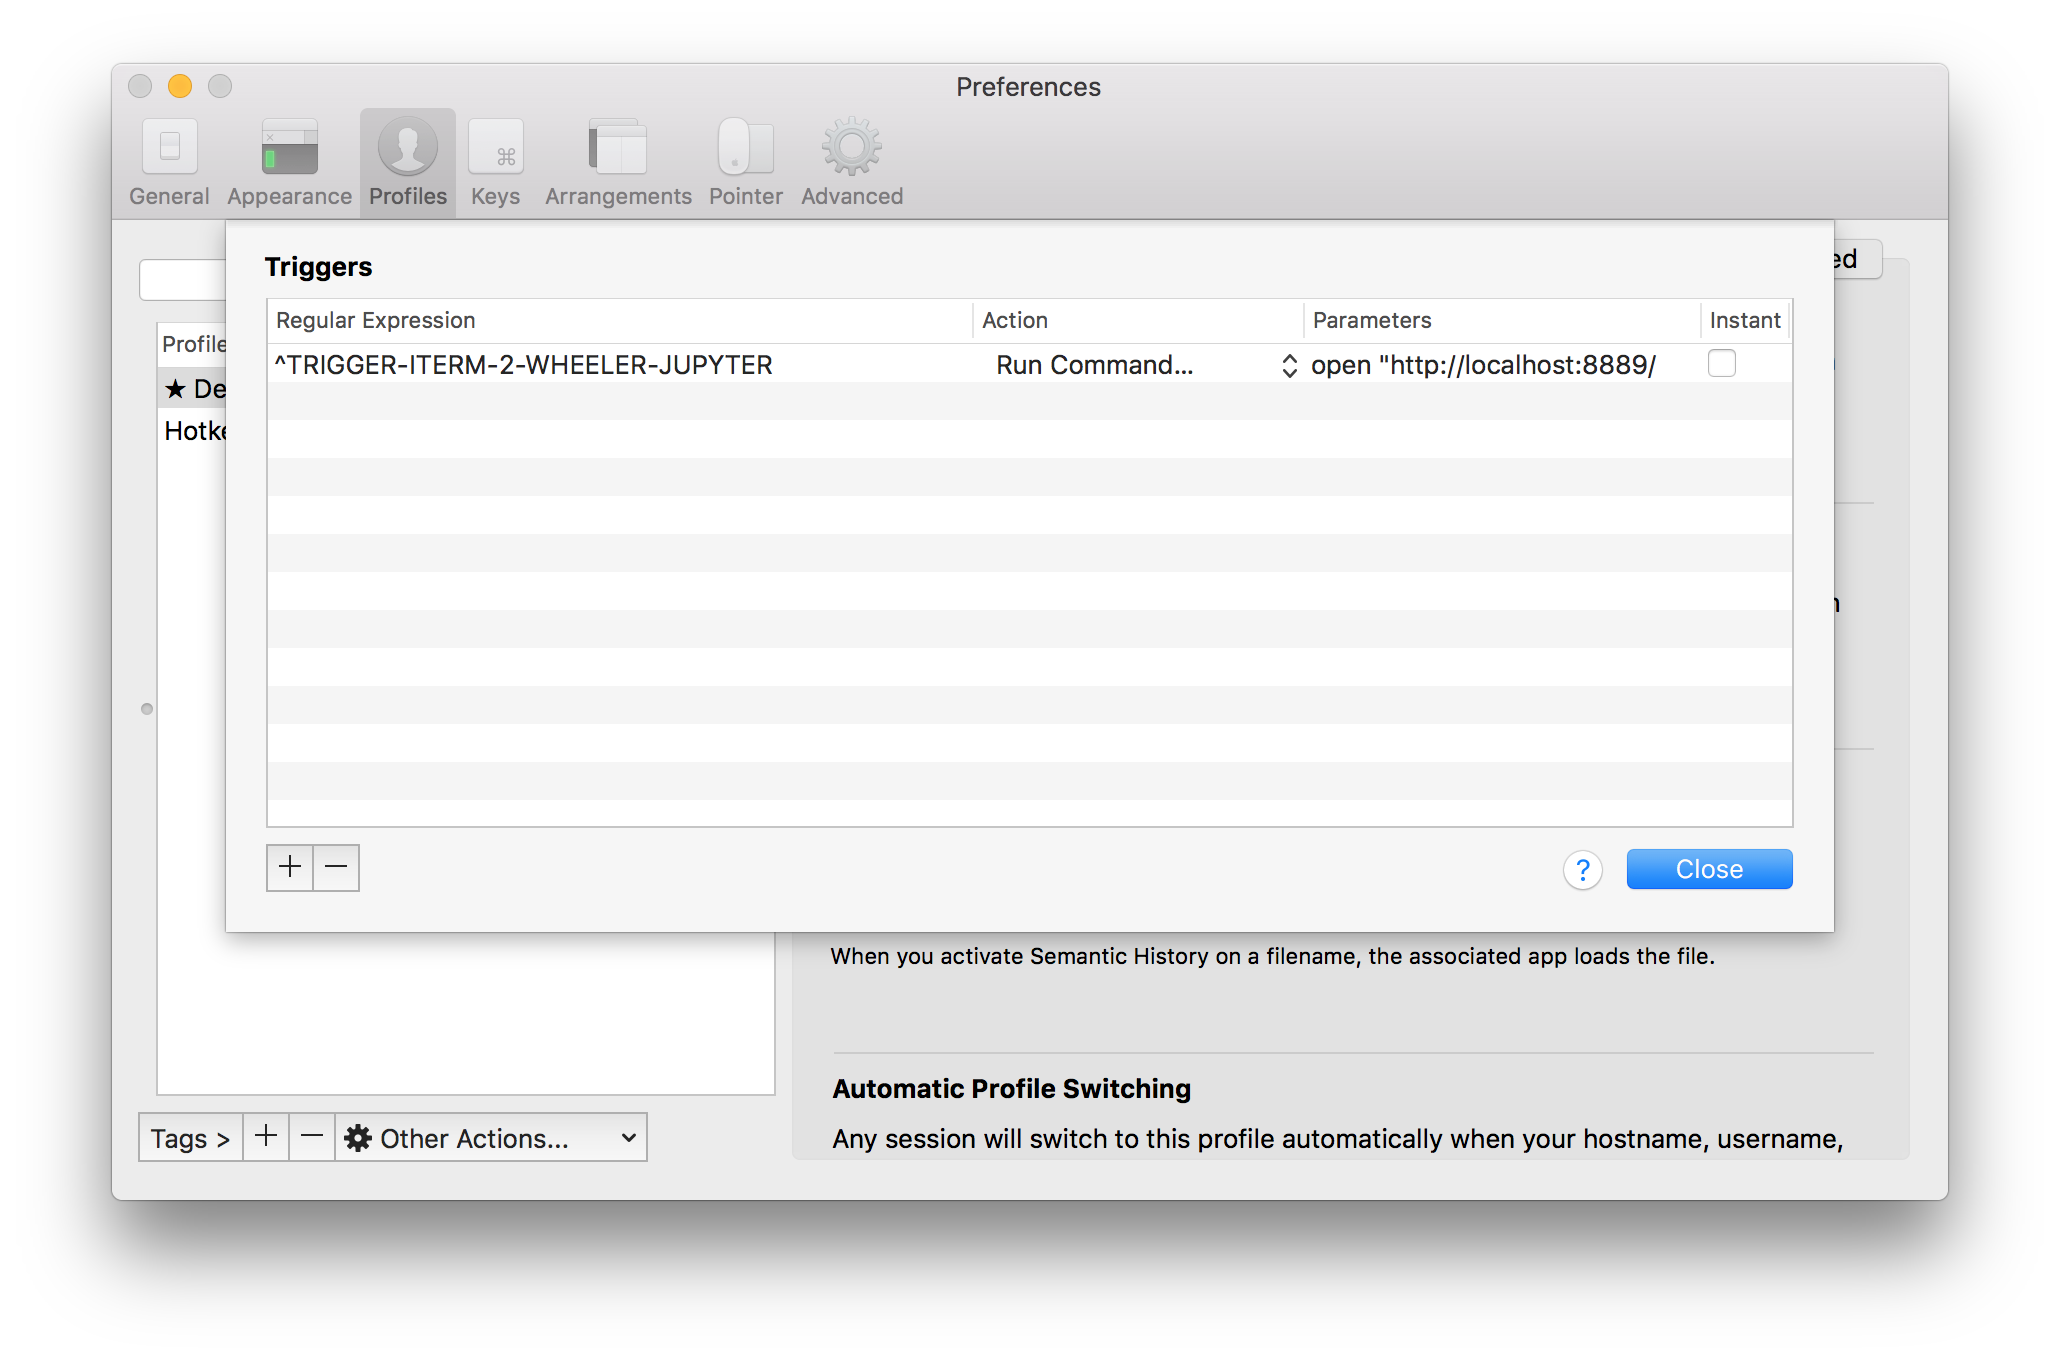
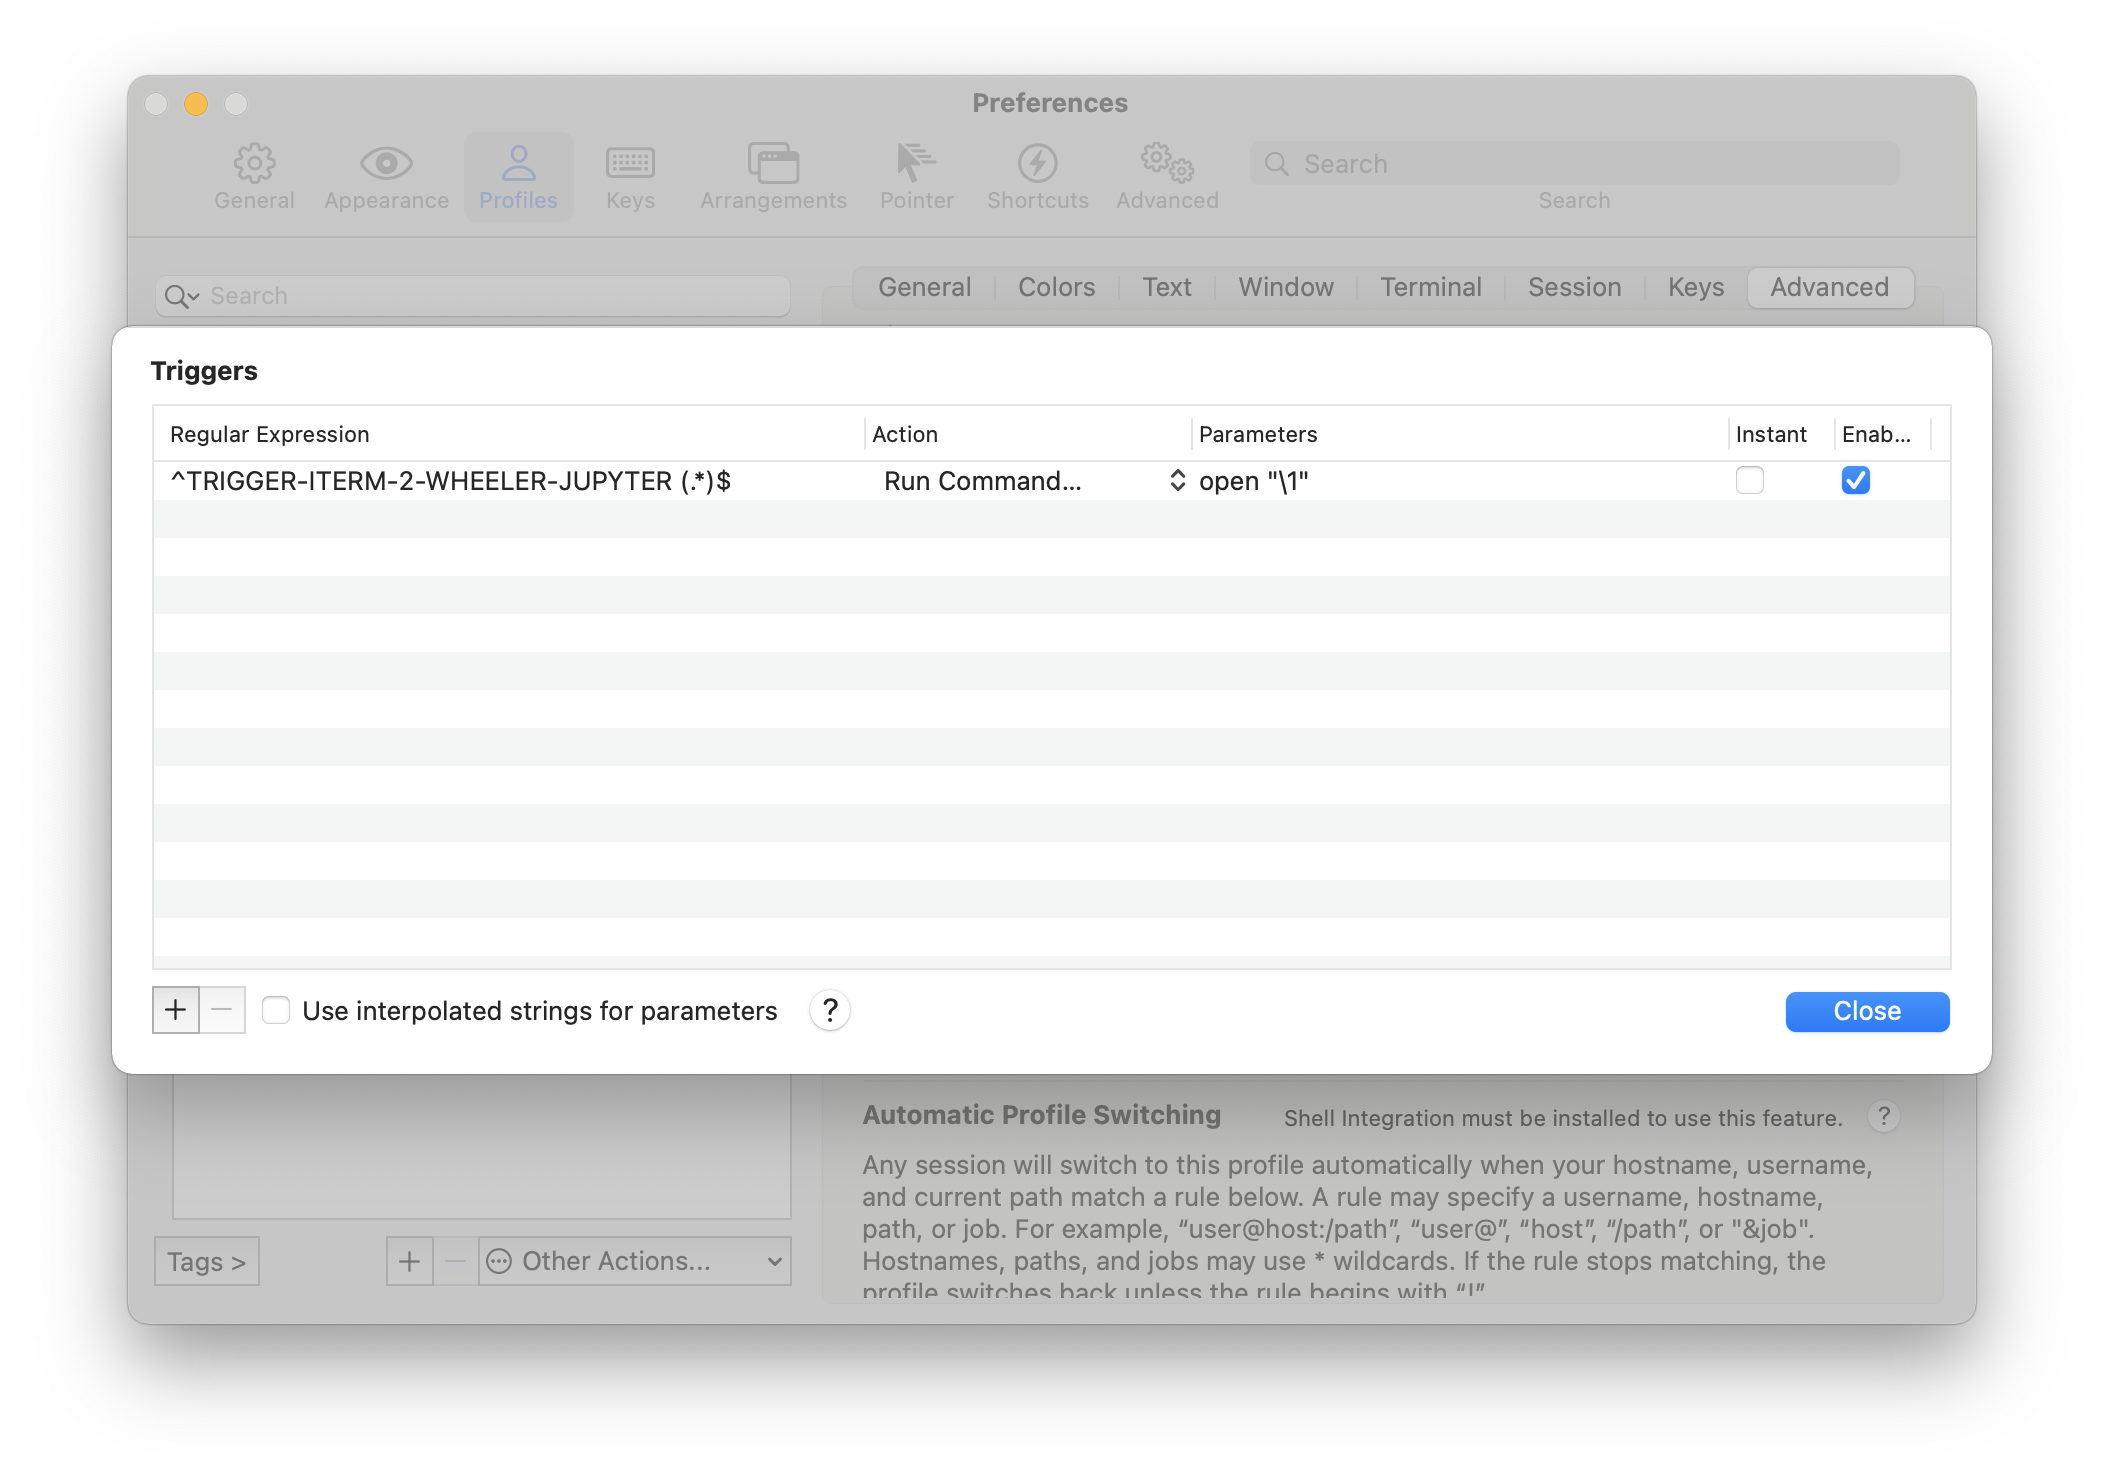
Update jupyter ssh tunneling

diff --git a/_posts/2017-04-19-ssh-ipython-notebook-magic.md b/_posts/2017-04-19-ssh-ipython-notebook-magic.md
@@ -1,6 +1,6 @@
 ---
 title: "ssh ipython notebook tunneling magic"
-modified:
+modified: 2021-07-07
 categories: code
 excerpt: "How to get remote jupyter to automatically open a local browser."
 tags: [code, ssh, remote, tunnel, python, ipython, jupyter, iterm2, scientific computing]
@@ -8,7 +8,7 @@ date: 2017-04-19T22:24:00-07:00
 ---
 
 The problem: you have large datasets on a remote machine and want to
-use an `ipython` ([`jupyter`](http://jupyter.org/)) notebook to
+use a [`jupyter`](http://jupyter.org/) notebook to
 interactively analyse your data.  You could transfer the data to your
 local machine, or mount the remote drive.  But ideally, the `jupyter`
 server should run on the remote machine, so that only the much smaller
@@ -30,12 +30,18 @@ browser.  This will work in any programmable terminal that has trigger
 functionality.  There may be other solutions, please contact me if you
 have something cleaner.
 
+**Update 2021-07-07**: I updated these instructions to include how to
+capture the token that's output when your jupyter session is secure.
+
 # Instructions
 
 There are just 3 steps:
 
 1. On your local machine, set up your `ssh_config` to always forward a
-   specific port for this remote host.  I picked 8889, leaving 8888
+   specific port for this remote host.  It's most convenient for this
+   to be the same local and remote port, and it should be one that you
+   expect to be free (for example, something in the range 49152—65535).
+   I picked 8889, leaving 8888
    free for a locally-running `jupyter`.  To do this, add an entry for
    the remote host in `~/.ssh/config` with the `LocalForward` keyword
    like so:
@@ -45,23 +51,26 @@ There are just 3 steps:
      HostName     wheeler.caltech.edu
      User         leostein
      ForwardX11   no
-     LocalForward 8889 localhost:8888
+     LocalForward 8889 localhost:8889
    ~~~
    
    This tells `ssh` that whenever I `ssh wheeler`, it's also going to
    forward my *local* port 8889 to the *remote* interface:port pair
-   localhost:8888, which is where the remote `jupyter` server is going
+   localhost:8889, which is where the remote `jupyter` server is going
    to be listening.
 
 2. On your remote machine, edit your
-   `~/.jupyter/jupyter_notebook_config.py` to use a custom "browser".
+   `~/.jupyter/jupyter_notebook_config.py` to use a custom port,
+   custom "browser", and no redirect file.
    If you don't already have a config file, then run `jupyter notebook
    --generate-config` to create one in the default place.  Open this
    file and find the variable named `NotebookApp.browser`.  Uncomment
    it and set it to emit a magic keyword.  I set this:
    
    ~~~ python
+   c.NotebookApp.port = 8889
    c.NotebookApp.browser = u'echo TRIGGER-ITERM-2-WHEELER-JUPYTER %s'
+   c.NotebookApp.use_redirect_file = False
    ~~~
    
    The `%s` is going to get replaced with the URL on the remote
@@ -76,22 +85,26 @@ There are just 3 steps:
    ![]({{ site.url }}/images/iterm2-prefs-profs-advanced.png)
    
    Hit the plus to add a new trigger.  Set the regular expression to
+   (for example)
    
    ~~~
-   ^TRIGGER-ITERM-2-WHEELER-JUPYTER
+   ^TRIGGER-ITERM-2-WHEELER-JUPYTER (.*)$
    ~~~
    
    using the same magic keyword as in step 2 (if you omit the caret,
    you're going to have an annoying time editing the
    `jupyter_notebook_config` in the future, if you need to do that).
+   The parenthetical pattern will be captured so we can use it for the
+   following command.
    Set the Action to 'Run Command...'.  Then set the Parameters to
    
    ~~~
-   open "http://localhost:8889/tree"
+   open "\1"
    ~~~
    
-   using the same *local* port as in step 1.  You should see something
-   like this:
+   This will get you the correct token.  If you are using a different
+   local and remote port, you will need to work harder.
+   You should see something like this:
    
    ![]({{ site.url }}/images/iterm2-prefs-profs-advanced-2.png)
    
